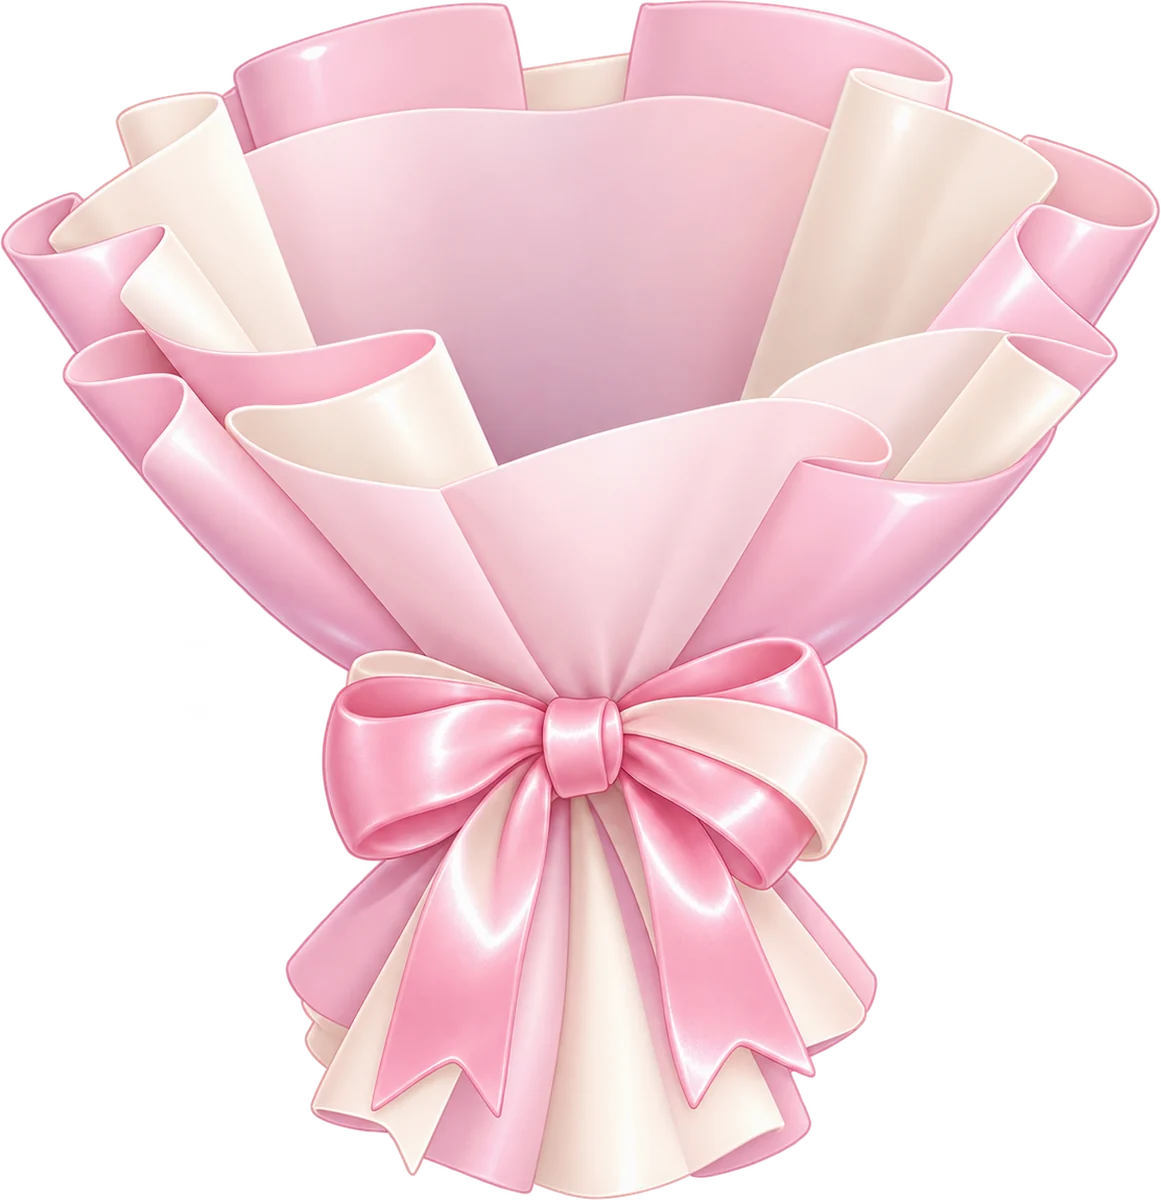
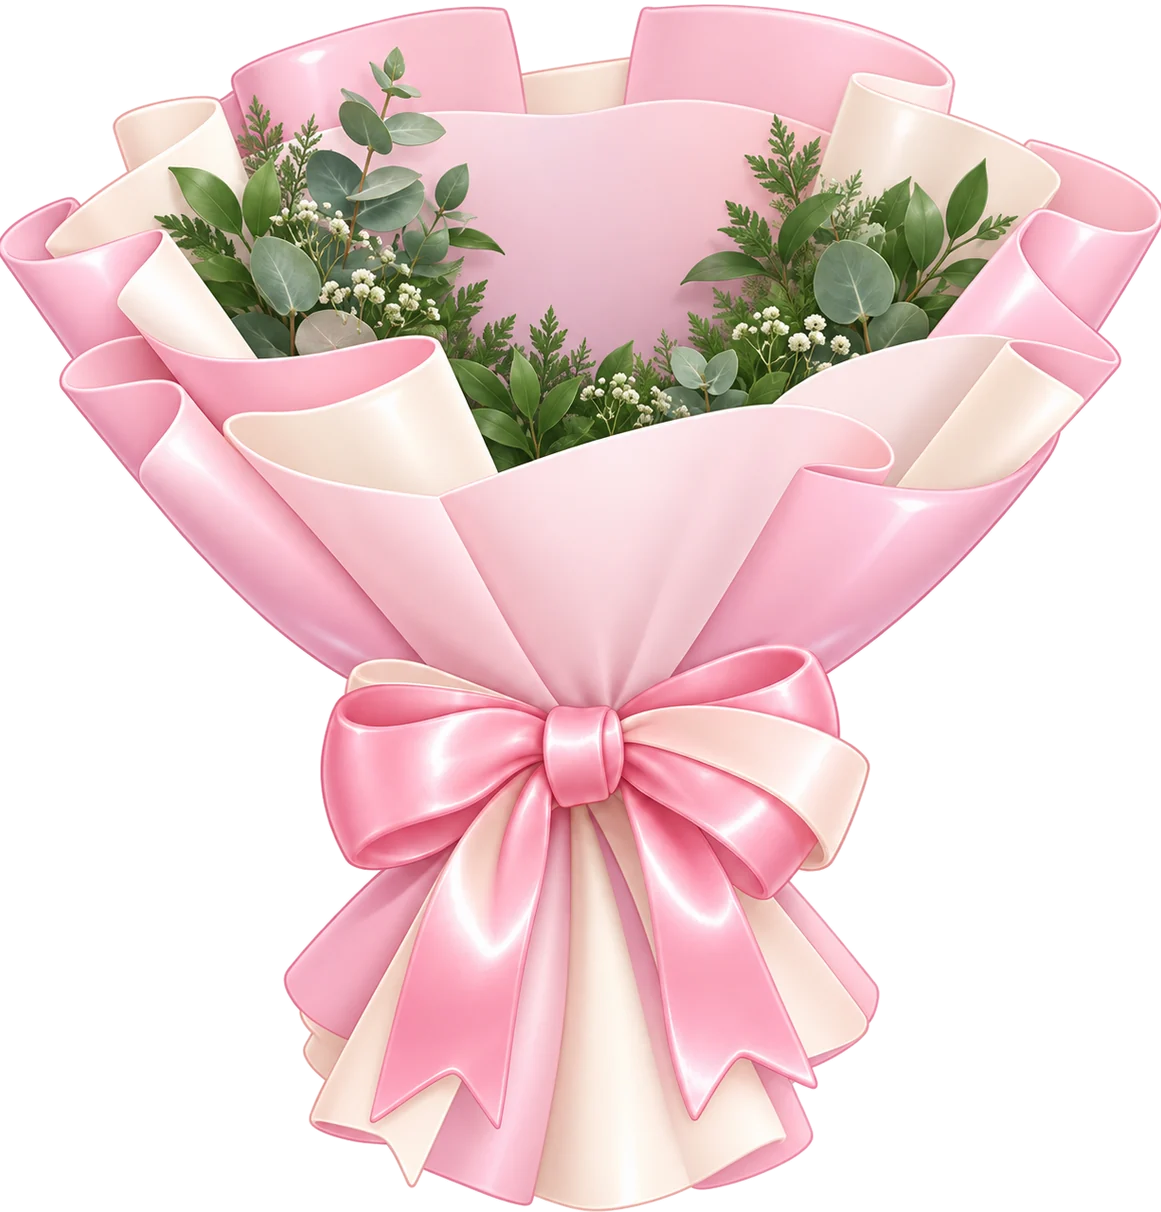
garden bouquets: new wrap/vase art with greenery tucked inside (keyed + aligned to old geometry); code sprigs frame the flowers a bit wider above the rim
- 8 skins (bqpaper/tulle/korean/heart/basket/crown, vasegold/vasecat) use the new images; body aligned to the
  old wrap so BQ_MOUTH / ground fields stay valid. Images taller than the old canvas get an 'ext' (drawn above y).
- Eucalyptus/ruscus sprigs stay behind the gift dome: cone above the rim widens up to ~14% of the opening per side,
  tips reach a bit past the dome. Gift flower spots keep the old narrower cone.
- New theme thumbnails + widgets gallery card.

diff --git a/packages/overlay/public/garden.html b/packages/overlay/public/garden.html
@@ -108,13 +108,13 @@
       cart: { src: 'themes/pot-cart.webp', x: -136.1, y: -139.9, w: 269.3, h: 139.9, top: -106.4, spread: 45.6 },
       basket: { src: 'themes/pot-basket.webp', x: -133.9, y: -189.8, w: 263.8, h: 189.8, top: -153.2, spread: 45.6 },
       // ห่อช่อ / แจกัน (ดอกไม้งอกจากปากห่อ)
-      bqpaper: { src: 'themes/pot-bqpaper.webp', x: -145.2, y: -300, w: 290.3, h: 300, top: -240.0, spread: 46.4, behind: true },
-      bqtulle: { src: 'themes/pot-bqtulle.webp', x: -147.8, y: -300, w: 295.5, h: 300, top: -234.0, spread: 47.3, behind: true },
-      bqkorean: { src: 'themes/pot-bqkorean.webp', x: -142.9, y: -300, w: 285.9, h: 300, top: -240.0, spread: 45.7, behind: true },
+      bqpaper: { src: 'themes/pot-bqpaper.webp', x: -145.2, y: -300, w: 290.3, h: 300, top: -240.0, spread: 46.4, ext: 3.0, behind: true },
+      bqtulle: { src: 'themes/pot-bqtulle.webp', x: -147.8, y: -300, w: 295.5, h: 300, top: -234.0, spread: 47.3, ext: 2.0, behind: true },
+      bqkorean: { src: 'themes/pot-bqkorean.webp', x: -142.9, y: -300, w: 285.9, h: 300, top: -240.0, spread: 45.7, ext: 2.0, behind: true },
       bqheart: { src: 'themes/pot-bqheart.webp', x: -149.4, y: -280, w: 298.9, h: 280, top: -224.0, spread: 47.8, behind: true },
       bqbasket: { src: 'themes/pot-bqbasket.webp', x: -133.8, y: -280, w: 267.6, h: 280, top: -140.0, spread: 42.8, behind: true },
-      vasegold: { src: 'themes/pot-vasegold.webp', x: -116.1, y: -270, w: 232.2, h: 270, top: -237.6, spread: 18.6, behind: true, narrow: true },
-      vasecat: { src: 'themes/pot-vasecat.webp', x: -107.5, y: -250, w: 214.9, h: 250, top: -200.0, spread: 30.1, behind: true },
+      vasegold: { src: 'themes/pot-vasegold.webp', x: -116.1, y: -270, w: 232.2, h: 270, top: -237.6, spread: 18.6, ext: 48.0, behind: true, narrow: true },
+      vasecat: { src: 'themes/pot-vasecat.webp', x: -107.5, y: -250, w: 214.9, h: 250, top: -200.0, spread: 30.1, ext: 29.0, behind: true },
       bqcrown: { src: 'themes/pot-bqcrown.webp', x: -139.8, y: -290, w: 279.5, h: 290, top: -237.8, spread: 44.7, behind: true },
       // แปลงผัก (ภาพกว้าง): n = จำนวนต้นตามขนาดแปลง · soil = ผิวดิน [x, y ขอบหลัง, y ขอบหน้า] ทุก ~10 หน่วย (สุ่มจุดปลูกทั่วพื้นที่)
       vwood: { src: 'themes/pot-vwood.webp', x: -199.5, y: -177.9, w: 399.8, h: 177.9, top: -119.6, n: 14, soil: [[-152.8,-130.4,-83.0],[-142.8,-143.4,-83.0],[-132.8,-156.3,-83.0],[-122.8,-156.3,-83.0],[-112.8,-156.3,-83.0],[-102.8,-156.3,-83.0],[-92.8,-156.3,-83.0],[-82.8,-156.3,-83.0],[-72.8,-156.3,-83.0],[-62.8,-156.3,-83.0],[-52.8,-156.3,-83.0],[-42.8,-156.3,-83.0],[-32.8,-156.3,-85.2],[-22.8,-156.3,-85.2],[-12.8,-156.3,-83.0],[-2.8,-156.3,-83.0],[7.2,-156.3,-83.0],[17.2,-156.3,-83.0],[27.2,-156.3,-83.0],[37.2,-156.3,-83.0],[47.2,-156.3,-83.0],[57.2,-156.3,-83.0],[67.2,-156.3,-83.0],[77.2,-156.3,-83.0],[87.2,-156.3,-83.0],[97.2,-156.3,-83.0],[107.2,-156.3,-83.0],[117.2,-156.3,-83.0],[127.2,-156.3,-83.0],[137.2,-152.0,-83.0],[147.2,-145.5,-83.0],[157.2,-121.8,-93.8]] },
@@ -384,10 +384,11 @@
     const BQ_MOUTH = { bqpaper: [0.14, 0.12, 0.90], bqtulle: [0.14, 0.10, 0.90], bqkorean: [0.14, 0.10, 0.88], bqheart: [0.12, 0.16, 0.86], bqbasket: [0.43, 0.12, 0.82], bqcrown: [0.14, 0.10, 0.90], vasegold: [0.08, 0.18, 0.82], vasecat: [0.09, 0.22, 0.78] };
     const MOUTH = BOUQ ? (() => {
       const P = POT_SKIN, m = BQ_MOUTH[SKIN_NAME] || [(BOUQ.rimY - P.y) / P.h, 0.15, 0.85];
-      const y = P.y + P.h * m[0], L = P.x + P.w * m[1], R = P.x + P.w * m[2], k = 0.2, E = P.w * 0.08;
+      const y = P.y + P.h * m[0], L = P.x + P.w * m[1], R = P.x + P.w * m[2], k = 0.3, E = (R - L) * 0.14; // เหนือปาก: ใบบานออกได้ ~14% ของความกว้างปากต่อข้าง (กรอบดอกแบบช่อร้านดอกไม้)
       const ext = (yy) => Math.min(E, Math.max(0, (y - yy) * k)); // กรวยบานขึ้นไป สูงสุด E ต่อข้าง
       const lo = (yy) => Math.max(P.x, L - ext(yy)), hi = (yy) => Math.min(P.x + P.w, R + ext(yy));
-      return { y, L, R, k, E, lo, hi, inside: (x, yy) => x >= lo(yy) && x <= hi(yy) };
+      const fe = (yy) => Math.min(P.w * 0.08, Math.max(0, (y - yy) * 0.2)), flo = (yy) => Math.max(P.x, L - fe(yy)), fhi = (yy) => Math.min(P.x + P.w, R + fe(yy)); // ดอก: กรวยแคบเดิม (ใบล้อมด้านนอก)
+      return { y, L, R, k, E, lo, hi, flo, fhi, inside: (x, yy) => x >= lo(yy) && x <= hi(yy) };
     })() : null;
     if (BOUQ) {
       const M = MOUTH, cx = (M.L + M.R) / 2, half = (M.R - M.L) / 2, by0 = M.y + POT_SKIN.h * 0.07; // โคนรวบใต้ปากห่อ (ซ่อนหลังห่อหน้า)
@@ -413,7 +414,7 @@
       // ใบเขียว: ยูคาลิปตัส/รัสคัส ตั้งขึ้นจากปากห่อ แผ่นิด ๆ (u = ตำแหน่งโคนข้ามความกว้างปาก)
       [[-0.75, -0.42], [0.75, 0.42], [-0.5, -0.28], [0.5, 0.3], [-0.25, -0.14], [0.25, 0.15], [-0.62, -0.36], [0.62, 0.36], [0, 0.02], [-0.12, -0.06], [0.12, 0.07]].forEach(([u, ang], j) => {
         const kind = j % 3 === 2 ? 'ruscus' : j % 2 ? 'euca' : 'ruscus', spr = BQ_GREEN[kind][(j * 3 + 1) % 4], bx = cx + u * half * 0.6;
-        const p = place(bx, ang, (x, a) => reach(x, a) * (1.06 + (j % 3) * 0.06), spr[1]);
+        const p = place(bx, ang, (x, a) => reach(x, a) * (1.12 + (j % 3) * 0.07), spr[1]); // ปลายใบเลยโดมดอก → เห็นใบล้อมดอก
         BQLEAF.push({ spr: spr[0], asp: spr[1], rot: p.a, len: p.H, m: j % 2 ? -1 : 1, phase: j * 1.3, bx, by: by0 });
       });
       [[-0.45, -0.3], [0.45, 0.28], [-0.15, -0.12], [0.15, 0.14], [0, 0]].forEach(([u, ang], j) => { // ยิปโซ (อยู่หน้าใบเขียว หลังดอก)
@@ -465,7 +466,7 @@
       } else if (BOUQ) { // ช่อ: จุดสุ่มในโดมเดิม ไม่ล้นกรวยปากห่อ (BQ_MOUTH)
         const r = Math.sqrt(xr()) * 0.98, th = xr() * 6.283, sx = Math.cos(th), sy = Math.sin(th);
         const y = Math.min(BOUQ.rimY + 6, BOUQ.cy + BOUQ.ry * r * (sy > 0 ? sy * 0.45 : sy));
-        let x = BOUQ.rx * r * sx; if (MOUTH) x = Math.max(MOUTH.lo(y) + 10, Math.min(MOUTH.hi(y) - 10, x));
+        let x = BOUQ.rx * r * sx; if (MOUTH) x = Math.max(MOUTH.flo(y) + 10, Math.min(MOUTH.fhi(y) - 10, x));
         sl = { tree: true, x, y, t: xr(), c: 0.75 * (1 - r) + 0.25 * clamp01(-sy) };
         if (bqNear) sl.stem = bqNear(x, y);
       } else if (BED && CLUMPS.length) { // แปลงผัก: ส่วนใหญ่ซุกบนกอทั่วแปลง · บางส่วนเกาะข้างก้านดอก
@@ -686,7 +687,7 @@
       ctx.save(); // การหายใจ (ยุบ-ยืด) ใส่ที่ frame ทั้งกลุ่ม ต้นไม้+กิ่ง+ดอกไม้ ขยับไปพร้อมกัน
       if (POT_SKIN) {
         ctx.beginPath(); ctx.ellipse(BED ? POT_SKIN.x + POT_SKIN.w / 2 : 0, -4, TREE ? 170 : BED ? POT_SKIN.w * 0.44 : 125, 12, 0, 0, Math.PI * 2); ctx.fillStyle = 'rgba(90,70,140,.25)'; ctx.fill();
-        if (potImg.ready()) ctx.drawImage(potImg.source, POT_SKIN.x, POT_SKIN.y, POT_SKIN.w, POT_SKIN.h);
+        if (potImg.ready()) { const e = POT_SKIN.ext || 0; ctx.drawImage(potImg.source, POT_SKIN.x, POT_SKIN.y - e, POT_SKIN.w, POT_SKIN.h + e); } // ext = ภาพสูงเกินกรอบเดิมด้านบน (ใบในห่อโผล่เลยขอบ)
         ctx.restore(); return;
       }
       // เงา
